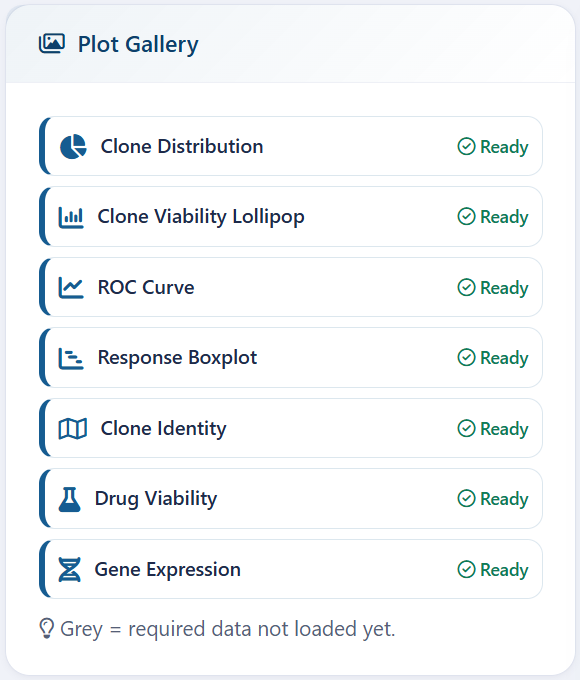
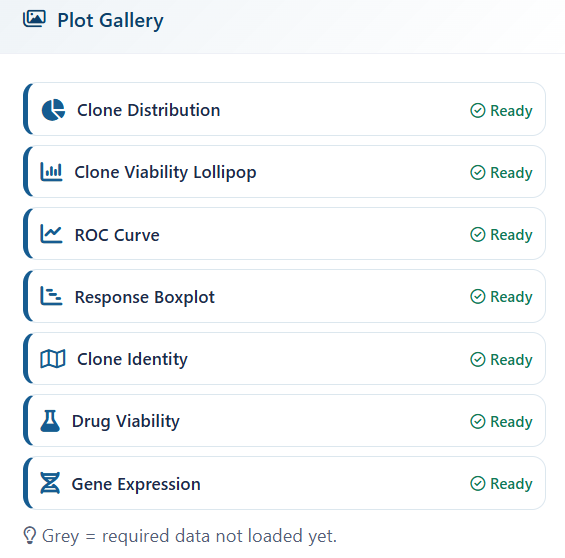
update tour guides on help tab

diff --git a/inst/shiny/app/www/styles.css b/inst/shiny/app/www/styles.css
@@ -3420,15 +3420,13 @@ table.dataTable thead th {
   font-size: 1.15rem;
   color: #fff;
 }
-/* Each entry card: icon tile and button share one gradient so the pair reads
-   as a single unit. Demo = ocean blue, Advanced = escalating blue-violet. */
+/* Each entry card: icon tile and button share one SOLID deep color
+   (no gradient). Demo = ocean blue, Advanced = deep violet. */
 .tw-entry-demo .tw-entry-ic {
-  background: linear-gradient(135deg, #165c91, #2a7eb8);
-  box-shadow: 0 2px 6px rgba(22, 92, 145, 0.25);
+  background: #165c91;
 }
 .tw-entry-adv .tw-entry-ic {
-  background: linear-gradient(135deg, #1e3a8a, #6d28d9);
-  box-shadow: 0 2px 6px rgba(76, 29, 149, 0.25);
+  background: #4c1d95;
 }
 .tw-entry-title strong {
   display: block;
@@ -3455,17 +3453,17 @@ table.dataTable thead th {
   transition: filter 0.15s ease, box-shadow 0.15s ease;
 }
 .tw-entry-demo .btn-tw-demo {
-  background: linear-gradient(135deg, #165c91, #2a7eb8);
+  background: #165c91;
 }
 .tw-entry-adv .btn-tw-adv {
-  background: linear-gradient(135deg, #1e3a8a, #6d28d9);
+  background: #4c1d95;
 }
 .tw-entry-demo .btn-tw-demo:hover,
 .tw-entry-demo .btn-tw-demo:focus,
 .tw-entry-adv .btn-tw-adv:hover,
 .tw-entry-adv .btn-tw-adv:focus {
   color: #fff;
-  filter: brightness(1.08);
+  filter: brightness(1.12);
 }
 
 /* Modal root: a FIXED height shared by every step, so paging between slides
@@ -3520,6 +3518,9 @@ table.dataTable thead th {
   min-height: 0;
   overflow-y: auto;
   overscroll-behavior: contain;
+  /* Reserve the scrollbar slot so content never jumps sideways when a slide
+     is taller or shorter than its neighbour */
+  scrollbar-gutter: stable;
 }
 .tw-count {
   position: absolute;
@@ -3541,7 +3542,6 @@ table.dataTable thead th {
   flex-direction: column;
   min-height: 100%;
   box-sizing: border-box;
-  animation: tw-fade 0.18s ease;
 }
 /* Header zone: step caption + title pinned top-left on every slide */
 .tw-slide-head {
@@ -3972,23 +3972,52 @@ table.dataTable thead th {
 /* ============================================================
    Walkthrough - layout variants & fixed-size tuning
    ============================================================ */
-/* Fixed dialog height shared by every step (dense slides set the size) */
+/* Fixed dialog height shared by every step. Sized so the tallest slide fits:
+   images are capped below, nothing ever scrolls inside the step card. */
 .tw-root {
-  height: min(78vh, 720px);
+  height: min(86vh, 820px);
 }
 .modal-dialog.modal-xl .modal-body {
-  max-height: 90vh;
+  max-height: 92vh;
 }
-/* Left-right slides: figure gets clearly more room than the text */
+/* Left-right slides: text ~2/5, FIGURE gets the wider ~3/5, clear distance
+   between the paragraph column and the screenshot */
 .tw-slide-body {
-  grid-template-columns: minmax(0, 0.85fr) minmax(0, 1.4fr);
-  gap: 1.2rem;
+  grid-template-columns: minmax(0, 2fr) minmax(0, 3fr);
+  gap: 2.4rem;
 }
-/* Figure frames stay snug around the image (no dead whitespace) */
-.tw-shot {
+/* LR: text is centred inside its own column (not hugging the left edge);
+   the figure is centred inside its own wider column */
+.tw-slide-body:not(.tw-tb) > .tw-slide-text {
+  justify-self: center;
+  width: fit-content;
+  max-width: 100%;
+  text-align: left;
+}
+/* LR slides with a screenshot: when the copy is long enough to fill its whole
+   column, centring is a no-op and the text visually sticks to the modal's
+   left border. Pull the block right - towards the slide midline - so even
+   full-width paragraphs keep breathing room on the left. */
+.tw-slide-body:not(.tw-tb):not(.tw-slide-body-text) > .tw-slide-text {
+  margin-left: clamp(2rem, 7%, 4.5rem);
+}
+/* Figure frames shrink-wrap each screenshot at ITS OWN aspect ratio - never a
+   shared width/height box. The image decides its size within generous caps,
+   so square shots stay square and wide shots stay wide, with no letterboxing */
+.tw-slide-body > .tw-shot {
+  width: fit-content;
+  max-width: 100%;
+  justify-self: center;
+  align-self: center;
   padding: 0.4rem;
 }
-/* "上图下文字": figure on top, text below, both centred */
+.tw-slide-body > .tw-shot img {
+  width: auto;
+  height: auto;
+  max-width: 100%;
+  max-height: min(54vh, 540px);
+}
+/* tb: image above text, compact cap so the slide fits without scrolling */
 .tw-slide-body.tw-tb {
   display: flex;
   flex-direction: column;
@@ -3997,30 +4026,29 @@ table.dataTable thead th {
 }
 .tw-slide-body.tw-tb > .tw-shot {
   align-self: center;
-  width: min(100%, 700px);
+}
+.tw-slide-body.tw-tb > .tw-shot img {
+  max-height: min(30vh, 320px);
 }
 .tw-slide-body.tw-tb > .tw-slide-text {
   width: 100%;
-  max-width: 46rem;
+  max-width: 44rem;
   align-self: center;
   text-align: left;
 }
-/* LR slides: the figure frame stretches to the full row height, so its
-   container always matches the layout height and the image scales up with
-   the hi-res screenshots instead of sitting in a small box with blank space */
-.tw-slide-body:not(.tw-tb) > .tw-shot {
-  align-self: stretch;
-  min-height: 300px;
+/* Larger readable type across all slides */
+.tw-slide-text p {
+  font-size: 1.02rem;
+  line-height: 1.7;
+  margin-bottom: 0.5rem;
 }
-.tw-slide-body:not(.tw-tb) > .tw-shot img {
-  width: 100%;
-  height: 100%;
-  max-height: none;
-  object-fit: contain;
+.tw-points {
+  font-size: 0.97rem;
+  line-height: 1.7;
 }
-/* "上图下文字": height-capped so the whole slide fits without scrolling */
-.tw-slide-body.tw-tb > .tw-shot img {
-  max-height: min(34vh, 330px);
+.tw-slide-body.tw-tb > .tw-slide-text p {
+  font-size: 0.96rem;
+  margin-bottom: 0.45rem;
 }
 /* Quiet bottom disclaimer line (no boxed "warning" component) */
 .tw-warn {
@@ -4035,6 +4063,8 @@ table.dataTable thead th {
 .tw-warn i {
   color: var(--primary, #165c91);
   margin-top: 0.1rem;
+  margin-right: 0.4rem;
+  flex: 0 0 auto;
 }
 /* Centred action button (Demo step 1) */
 .tw-center-btn {
@@ -4069,6 +4099,28 @@ table.dataTable thead th {
 .tw-slide.tw-big .tw-points li {
   margin: 0.32rem 0;
 }
+/* Files step: the three example-table cards also get bigger type */
+.tw-slide.tw-big .tw-tbl-row {
+  gap: 0.8rem;
+}
+.tw-slide.tw-big .tw-tbl-card {
+  padding: 0.7rem 0.85rem;
+}
+.tw-slide.tw-big .tw-tbl-card strong {
+  font-size: 0.92rem;
+  margin-bottom: 0.35rem;
+}
+.tw-slide.tw-big .tw-tbl-card table {
+  font-size: 0.8rem;
+}
+.tw-slide.tw-big .tw-tbl-card th,
+.tw-slide.tw-big .tw-tbl-card td {
+  padding: 0.22rem 0.4rem;
+}
+.tw-slide.tw-big .tw-tbl-card .tw-tbl-note {
+  font-size: 0.78rem;
+  margin-top: 0.45rem;
+}
 .tw-slide.tw-big .tw-chip {
   font-size: 0.9rem;
   padding: 0.3rem 0.8rem;
@@ -4083,6 +4135,36 @@ table.dataTable thead th {
 .tw-slide.tw-big .tw-center-btn .btn {
   font-size: 1.08rem;
   padding: 0.62rem 1.5rem;
+}
+/* Files step (text-only page with the three example-table cards):
+   bump every piece of text, including the tables themselves */
+.tw-slide-body-text:has(.tw-tbl-card) .tw-slide-text {
+  max-width: 66rem;
+}
+.tw-slide-body-text .tw-slide-text p {
+  font-size: 1.06rem;
+  line-height: 1.75;
+}
+.tw-slide-body-text .tw-tbl-row {
+  gap: 0.9rem;
+}
+.tw-slide-body-text .tw-tbl-card {
+  padding: 0.7rem 0.8rem;
+}
+.tw-slide-body-text .tw-tbl-card strong {
+  font-size: 0.9rem;
+  margin-bottom: 0.35rem;
+}
+.tw-slide-body-text .tw-tbl-card table {
+  font-size: 0.78rem;
+}
+.tw-slide-body-text .tw-tbl-card th,
+.tw-slide-body-text .tw-tbl-card td {
+  padding: 0.2rem 0.35rem;
+}
+.tw-slide-body-text .tw-tbl-card .tw-tbl-note {
+  font-size: 0.76rem;
+  margin-top: 0.4rem;
 }
 
 /* ============================================================

diff --git a/inst/shiny/app/www/tour.js b/inst/shiny/app/www/tour.js
@@ -63,7 +63,7 @@
       title: '🎉 You\'re all set!',
       text: 'Click "Load Demo" to start with the demo data, or upload your own. ' +
             'For a more detailed, click-by-click walkthrough of the demo or your own data, ' +
-            'open the Help page (top navigation) and choose a tour.'
+            'open the Help tab (top navigation) and choose a tour.'
     }
   ];
 
